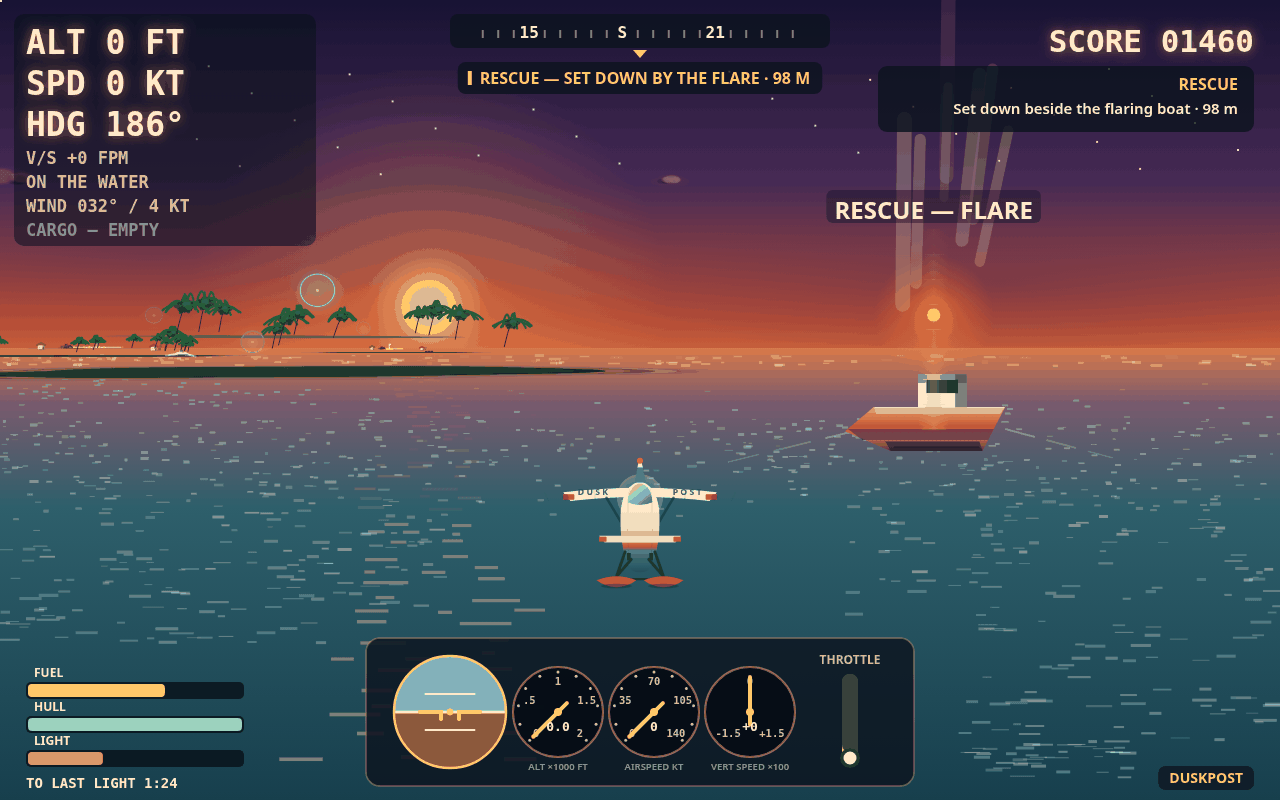
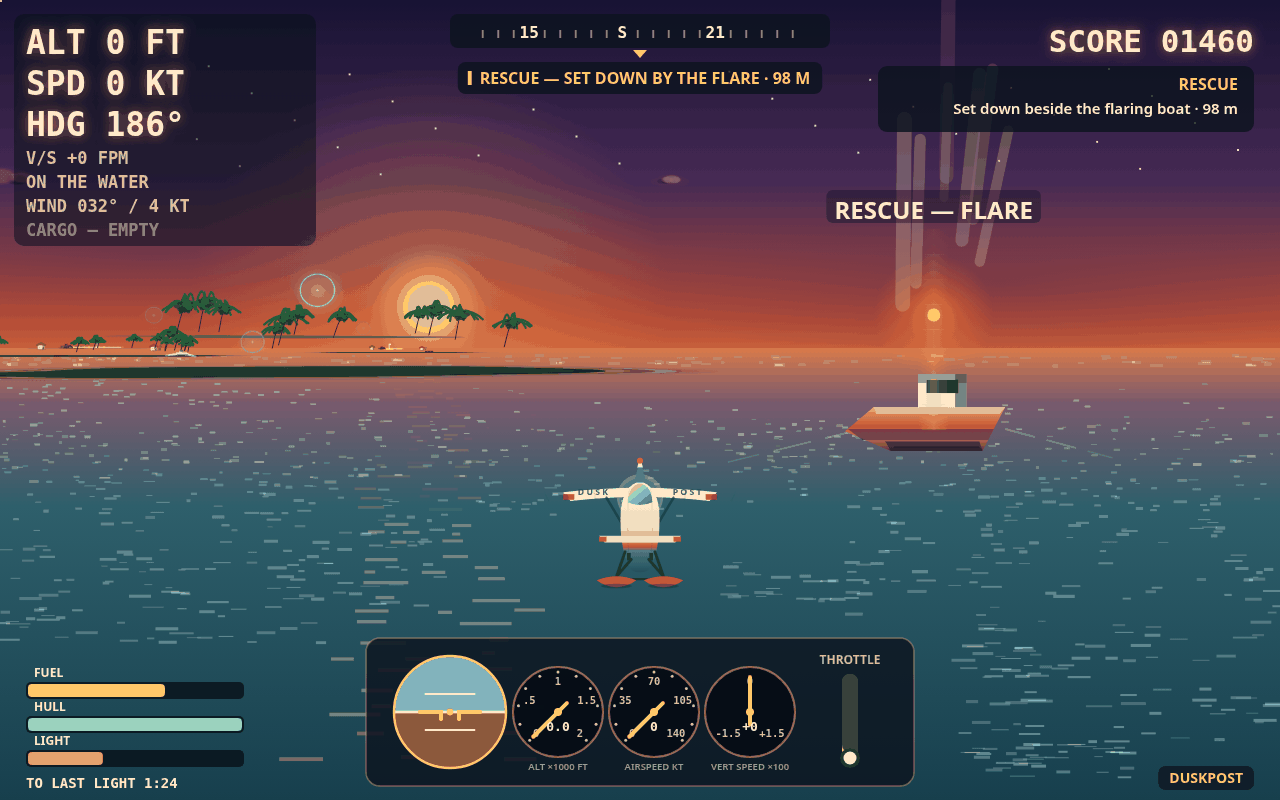
V35: three flat sea pockets filled in cover+rescue (PA/PB/PC); approach corner + delivery y700 grass completed (AB/E2-left revision)

diff --git a/game/src/render.js b/game/src/render.js
@@ -1118,6 +1118,144 @@ function drawSea(ctx, v, plane, light) {
     ctx.globalAlpha = clamp(0.6 - p.fwd / 2600, 0.12, 0.30) * (0.7 + hash(11) * 0.6);
     ctx.fillRect(p.x - len / 2, p.y, len, ht);
   }
+  // V35: a PA pass — the cover's AND the rescue's mid-right sea has
+  // a DEAD FLAT pocket at (720–880, 560–600): sd 1.4 / 3.8 in the
+  // 80×40 fine scan, one pale dash in the 3× crop (V35 audit
+  // problem 1). The pocket is owned by nobody: the near pass ends
+  // at py 515, the L-deep pass is px ≤450, the deep-2 pass starts
+  // at py 658. Same window shape and dash as the deep passes, px
+  // 720–880, py horizon+212…+252, gate fwd 25–60, count 30, salt
+  // 89.3. Hash-proven before rendering (sea-probe35b.mjs): 30/30
+  // kept at cover AND rescue, 30/30 in the pocket, 0/30 at
+  // approach, delivery and storm, 0 on any panel/pill. At map the
+  // samples land under the debrief drawing — the render diff must
+  // confirm the map is unchanged or changed only off-panel.
+  ctx.fillStyle = 'rgba(220,245,245,1)';
+  for (let i = 0; i < 30; i += 1) {
+    const hash = (salt) => {
+      const h = Math.sin(i * 12.9898 + salt * 7.77 + 89.3) * 43758.5453;
+      return h - Math.floor(h);
+    };
+    const px = 720 + hash(1) * 160;
+    const py = v.horizon + 212 + hash(2) * 40;
+    if (py > 616 && py < 794 && px > 326 && px < 954) continue; // instrument panel
+    if (py > 641 && py < 796 && px > 16 && px < 249) continue; // fuel/hull gauges
+    const s = (py - v.horizon) / v.camY;
+    const fwd = v.focal / s;
+    if (fwd < 25 || fwd > 60) continue;
+    const right = (px - VIEW_W / 2) / s;
+    const wx = v.camX + fwd * v.sinH + right * v.cosH;
+    const wz = v.camZ + fwd * v.cosH - right * v.sinH;
+    const p = project(v, wx, 0, wz);
+    if (!p) continue;
+    const len = clamp(p.s * 0.35, 4, 12) * (0.6 + hash(9) * 1.6);
+    const ht = 1 + Math.floor(hash(10) * 3);
+    ctx.globalAlpha = clamp(0.6 - p.fwd / 2600, 0.12, 0.30) * (0.7 + hash(11) * 0.6);
+    ctx.fillRect(p.x - len / 2, p.y, len, ht);
+  }
+  // V35: a PB pass — a second flat pocket at (960–1040, 640–680):
+  // sd 2.6, one pale dash in the 3× crop (V35 audit problem 2).
+  // It sits in the gap between the L-deep pass (ends py 658) and
+  // the deep-2 pass (starts py 658) at px 960–1040. Same shape, px
+  // 960–1040, py horizon+292…+332, gate fwd 20–40, count 20, salt
+  // 89.5. Hash-proven before rendering (sea-probe35b.mjs): 20/20
+  // kept at cover AND rescue, 20/20 in the pocket, 0/20 at
+  // approach, delivery and storm, 0 on any panel/pill. Map diff
+  // guard as in the PA pass above.
+  ctx.fillStyle = 'rgba(220,245,245,1)';
+  for (let i = 0; i < 20; i += 1) {
+    const hash = (salt) => {
+      const h = Math.sin(i * 12.9898 + salt * 7.77 + 89.5) * 43758.5453;
+      return h - Math.floor(h);
+    };
+    const px = 960 + hash(1) * 80;
+    const py = v.horizon + 292 + hash(2) * 40;
+    if (py > 616 && py < 794 && px > 326 && px < 954) continue; // instrument panel
+    if (py > 641 && py < 796 && px > 16 && px < 249) continue; // fuel/hull gauges
+    const s = (py - v.horizon) / v.camY;
+    const fwd = v.focal / s;
+    if (fwd < 20 || fwd > 40) continue;
+    const right = (px - VIEW_W / 2) / s;
+    const wx = v.camX + fwd * v.sinH + right * v.cosH;
+    const wz = v.camZ + fwd * v.cosH - right * v.sinH;
+    const p = project(v, wx, 0, wz);
+    if (!p) continue;
+    const len = clamp(p.s * 0.35, 4, 12) * (0.6 + hash(9) * 1.6);
+    const ht = 1 + Math.floor(hash(10) * 3);
+    ctx.globalAlpha = clamp(0.6 - p.fwd / 2600, 0.12, 0.30) * (0.7 + hash(11) * 0.6);
+    ctx.fillRect(p.x - len / 2, p.y, len, ht);
+  }
+  // V35: a PC pass — a thin pocket at (480–560, 470–510): sd 6.0
+  // with ~3 dashes (V35 audit problem 3). A density pocket, not a
+  // gap: the near pass (fwd 60–200) covers py 470–510 but spreads
+  // 180 dashes over the whole sea. Same shape, px 480–560, py
+  // horizon+122…+162, gate fwd 55–80, count 20, salt 89.9.
+  // Hash-proven before rendering (sea-probe35c.mjs): 19/20 kept at
+  // cover AND rescue, 19/19 in the pocket, 0/20 at approach,
+  // delivery and storm, 0 on any panel. Map diff guard as above.
+  ctx.fillStyle = 'rgba(220,245,245,1)';
+  for (let i = 0; i < 20; i += 1) {
+    const hash = (salt) => {
+      const h = Math.sin(i * 12.9898 + salt * 7.77 + 89.9) * 43758.5453;
+      return h - Math.floor(h);
+    };
+    const px = 480 + hash(1) * 80;
+    const py = v.horizon + 122 + hash(2) * 40;
+    if (py > 616 && py < 794 && px > 326 && px < 954) continue; // instrument panel
+    if (py > 641 && py < 796 && px > 16 && px < 249) continue; // fuel/hull gauges
+    const s = (py - v.horizon) / v.camY;
+    const fwd = v.focal / s;
+    if (fwd < 55 || fwd > 80) continue;
+    const right = (px - VIEW_W / 2) / s;
+    const wx = v.camX + fwd * v.sinH + right * v.cosH;
+    const wz = v.camZ + fwd * v.cosH - right * v.sinH;
+    const p = project(v, wx, 0, wz);
+    if (!p) continue;
+    const len = clamp(p.s * 0.35, 4, 12) * (0.6 + hash(9) * 1.6);
+    const ht = 1 + Math.floor(hash(10) * 3);
+    ctx.globalAlpha = clamp(0.6 - p.fwd / 2600, 0.12, 0.30) * (0.7 + hash(11) * 0.6);
+    ctx.fillRect(p.x - len / 2, p.y, len, ht);
+  }
+  // V35: an AB pass — the approach frame's bottom-right sea corner
+  // is thin (y640 cells sd 4.7 / 3.3, y700 cells 6.37 / 4.62; V35
+  // audit problem 5). The V33 costing (no gate separates the
+  // approach corner from the delivery frame's strip-side grass) is
+  // answered by the fwd probe (sea-probe35.mjs): at the approach
+  // camera the corner is fwd 122.3–183.6, all sea; at the delivery
+  // camera the same rect is fwd 47.7–70.6, all land — disjoint.
+  // Same shape, px 960–1280, py horizon+278…+420, gate fwd
+  // 100–200, count 40, salt 89.7. Hash-proven before rendering
+  // (sea-probe35b.mjs): 40/40 kept at approach ONLY, 38 in the
+  // corner, 0/40 at every other camera, 0 on any panel.
+  // V35 REVISION (first render: the corner reads as textured water
+  // now, but only 1 of 4 cells meets the ≥8 guard — y640 x1120
+  // 6.9, y700 x960 7.50, y700 x1120 7.30 — the mechanism is density,
+  // not shape, so the count lifts 40 → 60 with the window, gate
+  // and shape unchanged; re-proven sea-probe35d.mjs, 60/60 kept at
+  // approach only, 57 in the corner).
+  ctx.fillStyle = 'rgba(220,245,245,1)';
+  for (let i = 0; i < 60; i += 1) {
+    const hash = (salt) => {
+      const h = Math.sin(i * 12.9898 + salt * 7.77 + 89.7) * 43758.5453;
+      return h - Math.floor(h);
+    };
+    const px = 960 + hash(1) * 320;
+    const py = v.horizon + 278 + hash(2) * 142;
+    if (py > 616 && py < 794 && px > 326 && px < 954) continue; // instrument panel
+    if (py > 641 && py < 796 && px > 16 && px < 249) continue; // fuel/hull gauges
+    const s = (py - v.horizon) / v.camY;
+    const fwd = v.focal / s;
+    if (fwd < 100 || fwd > 200) continue;
+    const right = (px - VIEW_W / 2) / s;
+    const wx = v.camX + fwd * v.sinH + right * v.cosH;
+    const wz = v.camZ + fwd * v.cosH - right * v.sinH;
+    const p = project(v, wx, 0, wz);
+    if (!p) continue;
+    const len = clamp(p.s * 0.35, 4, 12) * (0.6 + hash(9) * 1.6);
+    const ht = 1 + Math.floor(hash(10) * 3);
+    ctx.globalAlpha = clamp(0.6 - p.fwd / 2600, 0.12, 0.30) * (0.7 + hash(11) * 0.6);
+    ctx.fillRect(p.x - len / 2, p.y, len, ht);
+  }
   // V18: a left-weighted mid-band pass — the mirror of V17's
   // right-weighted one. The cover's far-left sea (px 0–150, py
   // 430–470) is fwd 902–1321 at the cover camera — the mid band —
@@ -3079,6 +3217,53 @@ function drawIsland(ctx, v, isl, t, light, world) {
         ctx.fillStyle = hexA(toneLand('#1f4030', '#0c1c14'), speckA);
         ctx.beginPath();
         ctx.ellipse(sp.x, sp.y, sr * sasp, sr * 0.5, srot, 0, Math.PI * 2);
+        ctx.fill();
+      }
+      // V35: an E2-left pass for the delivery frame's y700 grass
+      // cell, whose LEFT half is bare of bright marks (1120–1200,
+      // 700–740: 0 px >med+12 of 3,200; the cell as a whole sd 5.90
+      // vs the ≥8 guard — V35 audit problem 4, the V34 partial
+      // continued). The E2 pass's pale dashes do not read >12
+      // there, at this grazing angle. Same fixed-point height
+      // inversion, island clip, radius floor 3.0, tones and dash
+      // shape as the E2 revision, rect px 1120–1200, py 700–750,
+      // count 80, salts 97–103. Hash-proven (sea-probe35b.mjs):
+      // 80/80 kept at delivery, on land 80/80, 63 in the cell, 26
+      // pale; 0 on land at approach, rescue, map, cover and storm.
+      // The strip and the DUSKPOST pill draw after this, on top,
+      // so no speck ever dots the runway or the pill.
+      // V35 REVISION (first render: the left half goes 0 → 341 px
+      // >med+12 but the cell as a whole is still short of its guard
+      // — sd 6.58 vs ≥8 — because the RIGHT half (5.92) got
+      // nothing: the mechanism is density across the whole cell, so
+      // the rect widens to the full cell px 1120–1280 and the count
+      // lifts 80 → 140 with the shape and tones unchanged;
+      // re-proven sea-probe35d.mjs, 140/140 kept at delivery, on
+      // land 140/140, 58 in the left half and 52 in the right half,
+      // 62 pale; 0 on land elsewhere).
+      for (let i = 0; i < 140; i += 1) {
+        const sx = 1120 + sh(i, 97) * 160;
+        const sy = 700 + sh(i, 98) * 50;
+        let swx = 0, swz = 0, shgt = 0;
+        for (let it = 0; it < 3; it += 1) {
+          const ss = (sy - v.horizon) / (v.camY - shgt);
+          if (ss <= 0) break;
+          const sfwd = v.focal / ss;
+          const sright = (sx - VIEW_W / 2) / ss;
+          swx = v.camX + sfwd * v.sinH + sright * v.cosH;
+          swz = v.camZ + sfwd * v.cosH - sright * v.sinH;
+          shgt = world.heightAt(swx, swz);
+        }
+        const sp = project(v, swx, shgt, swz);
+        if (!sp || sp.x < 1120 || sp.x > 1280 || sp.y < 700 || sp.y > 750) continue;
+        const sr = clamp(sp.s * 0.75, 3.0, 4.5) * (0.7 + sh(i, 100) * 0.6);
+        const srot = (sh(i, 101) - 0.5) * 1.05;
+        const sasp = 1.5 + sh(i, 102) * 1.5;
+        ctx.fillStyle = sh(i, 99) > 0.62
+          ? hexA(tone('#a8b878', '#4a5a3a'), speckA * 1.17)
+          : hexA(toneLand('#1f4030', '#0c1c14'), speckA * 1.3);
+        ctx.beginPath();
+        ctx.ellipse(sp.x, sp.y, sr * sasp, sr * 0.75, srot, 0, Math.PI * 2);
         ctx.fill();
       }
       ctx.restore();
